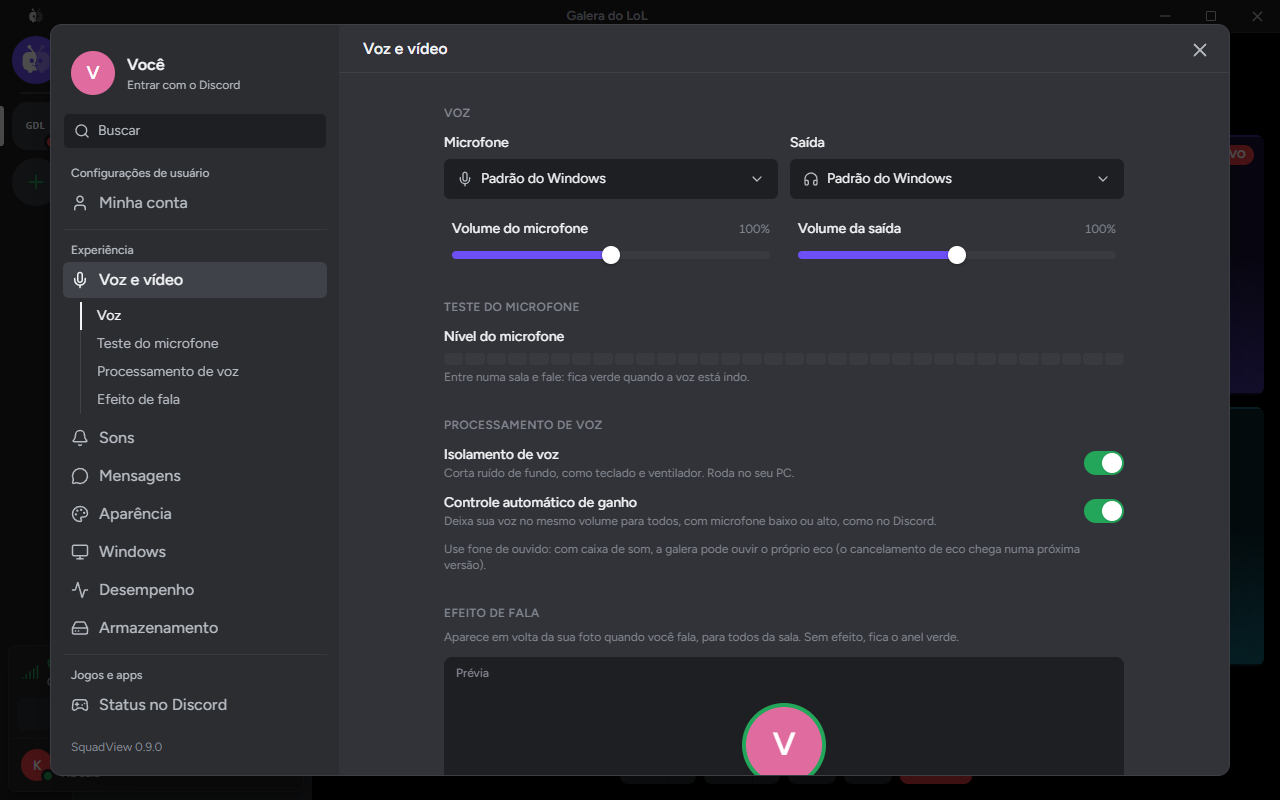
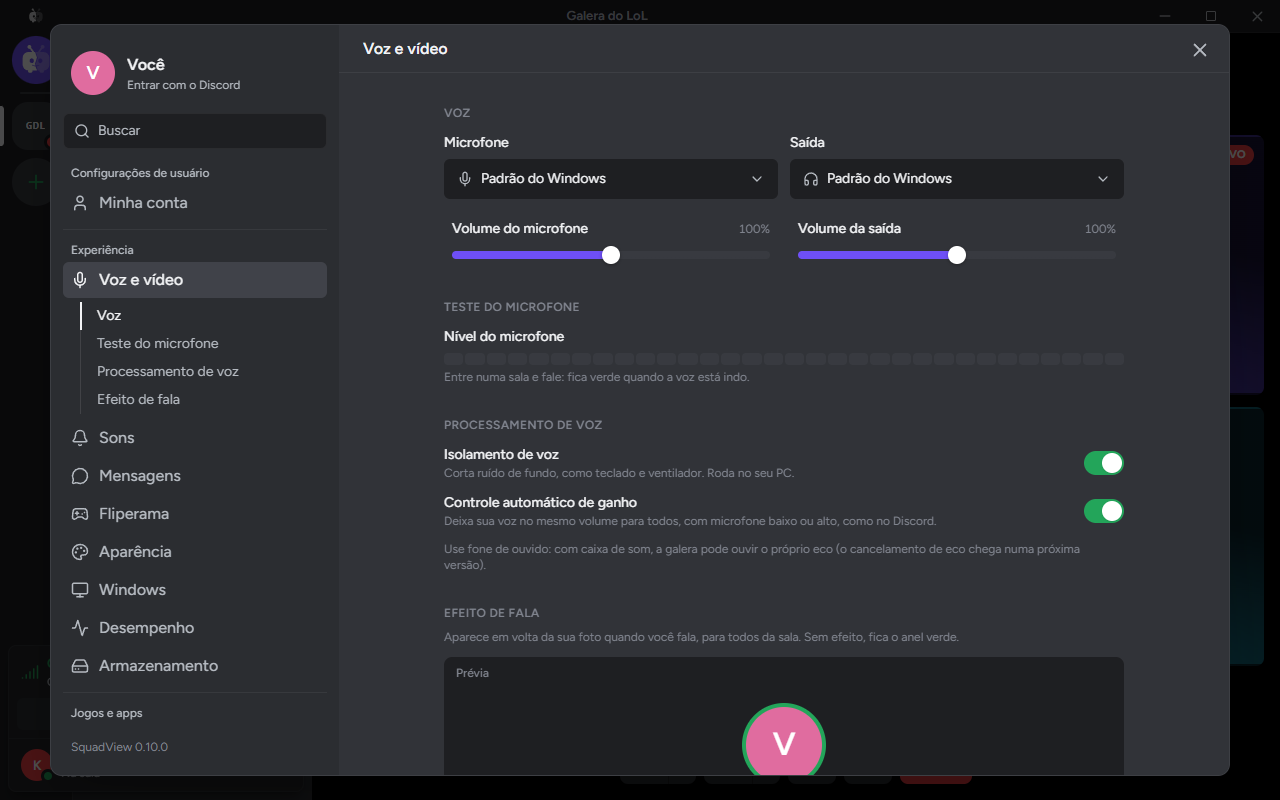
docs(docs): atualiza o README e as capturas para a versão 0.11
O destaque da versão passa a ser o Fliperama, com a retomada da sala e o
código inválido. Entra a captura do painel do Fliperama (cena de
demonstração nova, #demo=fliperama), e as telas que mudaram foram geradas
de novo.

Changed region(s): [[0.0625, 0.7812, 0.1875, 0.9062], [0.0625, 0.6875, 0.1562, 0.75], [0.0625, 0.625, 0.125, 0.6562]]

diff --git a/apps/desktop/src/dev/demo.ts b/apps/desktop/src/dev/demo.ts
@@ -1,10 +1,11 @@
 /**
  * Cenas de demonstração para as capturas do README (só no `yarn dev`, nunca no instalador):
  * `http://localhost:1420/#demo=sala`, `#demo=transmitir`, `#demo=config`, `#demo=amigos`, `#demo=conversa`,
- * `#demo=servidor`, `#demo=transmitindo`, `#demo=detalhes` ou `#demo=assistindo`.
+ * `#demo=servidor`, `#demo=transmitindo`, `#demo=detalhes`, `#demo=assistindo` ou `#demo=fliperama`.
  * Preenche as stores com uma sala de exemplo, sem precisar do Rust.
  */
 import { useAccountStore } from "../account/account-store";
+import { useArcadeStore } from "../arcade/arcade-store";
 import { type DmMessage, useDmStore } from "../dm/dm-store";
 import { useFriendsStore } from "../friends/friends-store";
 import { useAppearanceStore } from "../settings/appearance-store";
@@ -223,6 +224,21 @@ function goLive() {
   }, 250);
 }
 
+/** O nosso fliperama aberto sobre a live (ADR 0023): Lobo é o P2, Yondaime o P3 e com o controle total. */
+function openArcade() {
+  const arcade = { game: "Super Bomberman R", slots: 3, players: ["b", "c"] };
+  useRoomStore.setState({
+    members: useRoomStore.getState().members.map((m) => (m.id === "eu" ? { ...m, arcade } : m)),
+  });
+  useArcadeStore.setState({
+    hostDialog: true,
+    seats: [
+      { memberId: "b", slot: 2, connected: true, kbm: false },
+      { memberId: "c", slot: 3, connected: true, kbm: true },
+    ],
+  });
+}
+
 /** Assistindo duas lives ao mesmo tempo (Minato e Yondaime), cada uma como um quadro da sala. */
 function watchTwo() {
   const history = liveHistory();
@@ -324,7 +340,8 @@ export function runDemo(scene: string) {
         },
       },
     });
-  if (scene === "transmitindo" || scene === "detalhes") goLive();
+  if (scene === "transmitindo" || scene === "detalhes" || scene === "fliperama") goLive();
+  if (scene === "fliperama") openArcade();
   if (scene === "assistindo") watchTwo();
   // Espera a interface montar antes de abrir os modais.
   setTimeout(() => {

diff --git a/README.md b/README.md
@@ -35,7 +35,7 @@
 </p>
 
 > [!NOTE]
-> **Versão 0.10: a live com cara de Discord.** O vídeo agora é desenhado por baixo da interface: o AO VIVO, a qualidade, o nome, os menus e as animações aparecem por cima da live, sem as manchas e molduras pretas de antes, e um modal aberto não esconde mais a live. O picture in picture ganhou controles ao passar o mouse: silenciar, volume e voltar para o app. A sala ficou como a do Discord, com quem transmite e quem está assistindo no topo e a barra de botões embaixo dos quadros. Nas conversas, passe o mouse numa mensagem para reagir com emoji ou responder, e a hora aparece como no Discord ("Ontem às 23:59", só a hora para hoje e a data para dias anteriores). A sala inteira distribuindo o vídeo chega na [Fase 3](docs/roadmap.md). Achou um problema? [Abra uma issue](https://github.com/Kaique292/squadview/issues).
+> **Versão 0.11: o Fliperama.** Transmitindo um jogo com vários controles (Bomberman, jogos de luta, party games), abra o **Fliperama** no menu da sua live: até 3 amigos da call entram como P2, P3 e P4 e jogam pela rede, com controle de Xbox, com o teclado (que vira controle) ou com o mouse (que vira o analógico direito). Para jogos só de teclado e mouse, dê o **controle total** a um jogador por vez, com corte em Ctrl+Alt+F12. Também nesta versão: uma queda rápida da conexão não tira mais ninguém da sala nem derruba a voz, quem sai e volta não aparece duas vezes, e um código de sala que não existe avisa "Código inválido" em vez de criar uma sala vazia. Achou um problema? [Abra uma issue](https://github.com/Kaique292/squadview/issues).
 
 ## ✨ O que ele faz
 
@@ -47,12 +47,14 @@
 - **Só o áudio do jogo.** Transmitindo um jogo ou app, vai só o som dele, e o som acompanha quando o jogo troca de janela; o som da call fica de fora.
 - **A sua live na sala**, como no Discord: transmitindo, a sua tela vira um quadro da sala, com a qualidade e o AO VIVO no canto, desenhados por cima da imagem sem esconder nada dela. Clique para pôr em foco, dois cliques para a tela cheia e o botão direito para parar, trocar o que transmite, mudar a qualidade ou ligar e desligar o som, sem sair do ar. Os detalhes mostram o último minuto em gráficos (fps, bitrate, latência e encode) e o uso da GPU e da CPU em barras.
 - **Assista várias lives ao mesmo tempo**, como no Discord: cada live que você assiste vira um quadro da sala, igual ao da sua, e dá para assistir até 4 de uma vez. Clique para pôr em foco, dois cliques para a tela cheia e o botão direito (ou os "...") para o volume de até 200%, silenciar, parar de assistir e os detalhes (fps, bitrate, latência e ping em gráficos). No topo da sala aparecem quem transmite e as fotos de quem está assistindo; passe o mouse para ver a lista. Quer jogar enquanto assiste? Mande a live para uma **janelinha por cima de tudo** (picture in picture), com silenciar, volume e voltar para o app ao passar o mouse.
+- **Fliperama: o seu jogo local, online.** Transmitindo um jogo de vários controles, abra o Fliperama no menu da sua live e até 3 amigos da call entram como **P2, P3 e P4** pelo botão direito no seu nome. Cada um joga com o controle de Xbox dele, com o teclado (que vira controle, com as teclas que ele escolher) ou com o mouse preso no jogo (que vira o analógico direito). Para jogos só de teclado e mouse, você dá o **controle total** a um jogador por vez: só vale com a janela do jogo na frente, as teclas do Windows ficam bloqueadas e Ctrl+Alt+F12 corta na hora. Só quem hospeda instala o driver de controle (ViGEmBus), e dá para remover quando quiser em Configurações › Fliperama ([ADR 0023](docs/adr/0023-modo-fliperama.md) e [0024](docs/adr/0024-fliperama-teclado-e-mouse.md)).
 - **Funciona atrás de CGNAT.** Se a conexão direta não fecha (internet da operadora, 4G), o app tenta por IPv6 e, se ainda não der, recebe o vídeo por alguém da sala que já está assistindo. A voz faz o mesmo: se dois amigos não se alcançam, outro membro da sala repassa a voz entre eles, assinada com uma chave que só os dois conhecem ([ADR 0020](docs/adr/0020-voz-repassada-pela-sala.md)). Tudo de graça, sem servidor no meio; há também um repassador na nuvem pronto para ligar ([ADR 0014](docs/adr/0014-conexao-em-camadas.md)).
 - **Chat de voz na sala.** A sala é um canal de voz como o do Discord: um quadro por pessoa, cada um com o seu fundo em degradê, borda verde (ou o efeito que você escolher, com a cor que quiser; quando duas pessoas falam lado a lado, as cores se misturam onde os efeitos se tocam) em quem fala, mudo e surdo, e clique num quadro para pôr a pessoa em foco. Volume e silenciar por pessoa (só para você), isolamento de voz contra teclado e ventilador e controle automático de ganho, para todo mundo chegar no mesmo volume. A voz também vai direto de PC para PC.
 - **Amigos.** Veja quem está online, numa sala ou transmitindo. Peça para entrar na sala de um amigo (qualquer pessoa da sala aceita), chame amigos para a sua e marque quem entra direto. Adicione direto pelo botão direito em quem está na sala com você, ou depois, em Recentes.
 - **Servidores com salas fixas.** Crie um servidor para a turma, com salas de voz que ficam lá mesmo vazias. A lateral mostra quem está em cada sala e quem está ao vivo, mesmo com você fora dela, o ícone do servidor ganha um alto-falante quando tem gente em call, e quem é do servidor entra direto, sem pedir permissão. Chame a galera por um link de convite clicável, escolha administradores e dê um ícone ao servidor, ajustando o recorte, a posição e o zoom. O botão direito no ícone do servidor abre o menu dele.
 - **Conversas privadas.** Mande mensagens, fotos, vídeos e arquivos para um amigo, direto de PC para PC: nem o texto passa por servidor, e o histórico fica só no seu PC. Fotos pequenas aparecem sozinhas; arquivos grandes e vídeos esperam você clicar em Baixar (e dá para cancelar no meio). Passe o mouse numa mensagem para reagir com emoji ou responder, e a hora aparece como no Discord. Mensagem nova toca um som e soma no contador do ícone. O que você mandar com o amigo offline fica esperando e vai quando ele aparecer.
-- **Salas rápidas com nome e código, sem limite de pessoas.** Dê um nome à sala e mande o **link de convite**: quem tem o app entra direto, quem não tem cai na página de download.
+- **Salas rápidas com nome e código, sem limite de pessoas.** Dê um nome à sala e mande o **link de convite**: quem tem o app entra direto, quem não tem cai na página de download. Dá para colar o link inteiro no campo do código, e um código que não existe avisa "Código inválido".
+- **A conexão cai e ninguém percebe.** Se a conexão com a sala cair por um instante, o app volta sozinho na hora, com o mesmo lugar: a voz não cai, a lista não pisca e ninguém vê você sair e entrar ([ADR 0022](docs/adr/0022-retomada-da-vaga-na-sala.md)).
 - **Integração com o Discord.** Entre com a sua conta: seu nome e sua foto aparecem para toda a sala. Mostre no seu perfil do Discord que está numa sala, transmitindo ou assistindo, com o botão "Entrar na sala" se quiser.
 - **Visual que você já conhece.** Interface na organização do Discord, com identidade própria, configurações por categoria e efeito de vidro ajustável. Sons de aviso ao entrar, sair, mutar, ensurdecer e transmitir (com volume e cada som desligável).
 - **Fica na bandeja.** Fechar a janela deixa o app perto do relógio, e você continua na sala; clique no ícone para abrir ou use "Sair" no botão direito. Dá para desligar em Configurações › Windows.
@@ -74,6 +76,10 @@
 
 <p align="center">
   <img src="docs/images/tela-assistindo.png" alt="Assistindo duas lives ao mesmo tempo: cada uma é um quadro da sala, com a qualidade e o AO VIVO no canto, ao lado de quem está na voz" width="90%">
+</p>
+
+<p align="center">
+  <img src="docs/images/tela-fliperama.png" alt="Painel do Fliperama aberto sobre a live: Super Bomberman R com Lobo como P2 e Yondaime como P3 com o controle total ligado, e o aviso do corte em Ctrl+Alt+F12" width="90%">
 </p>
 
 <p align="center">
@@ -240,7 +246,7 @@ As miniaturas das janelas usam o crate `jpeg-encoder`: _this software is based i
 
 There is **no media server**: video goes directly between PCs over QUIC, with UDP hole punching. The plan (Phase 3) is for the room itself to distribute the video: members with spare upload relay already-encoded packets, and members on weak connections get a 720p layer. A tiny free signaling service (Cloudflare Worker) only helps peers find each other; no video goes through it.
 
-- **Status:** version 0.10. One friend streams and the rest of the room watches inside the app, directly PC to PC (NVIDIA and AMD), with a live viewer count. Members behind CGNAT connect over IPv6 or get the stream relayed by someone already watching; an optional cloud TURN relay is ready to turn on. The room is a Discord-like voice channel (peer-to-peer Opus voice with noise suppression), with friends, presence, "ask to join" requests, custom speaking effects that blend where they touch, picture-in-picture, notification sounds and a system tray icon. Watch up to 4 streams at once, each one a tile in the room with its own volume, mute, fullscreen, picture-in-picture (with hover controls) and stats. Video is drawn underneath the interface with DirectComposition, so badges, menus and animations blend over the stream. When two members can't reach each other (CGNAT), a third member relays their voice, signed end to end so the relay can't forge it. Rooms have no member limit. Servers with persistent voice rooms (showing who is in each room, with members joining directly), clickable invite links, roles and cropped icons; private peer-to-peer messages with files, emoji reactions and replies (no server in between, history kept locally). Discord login, invite links, Rich Presence and a silent Discord-style installer. Your own stream shows up as a tile in the room (Discord-style), with a right-click menu to stop, switch source, change quality or toggle audio without going offline, and a details view with live charts. Full room-wide relaying (mesh) is Phase 3. See the [roadmap](docs/roadmap.md).
+- **Status:** version 0.11. New: the **Arcade** mode turns a local multiplayer game into an online one: up to 3 friends on the call join as P2–P4 and play with their Xbox controller, keyboard (mapped to a controller) or mouse (right stick), through virtual Xbox controllers (ViGEmBus) on the host's PC; the host can hand "full control" of keyboard and mouse to one player at a time, only while the game window is in front, with Ctrl+Alt+F12 to cut it. Short signaling drops are now invisible: the app rejoins the room with the same seat, without dropping voice. One friend streams and the rest of the room watches inside the app, directly PC to PC (NVIDIA and AMD), with a live viewer count. Members behind CGNAT connect over IPv6 or get the stream relayed by someone already watching; an optional cloud TURN relay is ready to turn on. The room is a Discord-like voice channel (peer-to-peer Opus voice with noise suppression), with friends, presence, "ask to join" requests, custom speaking effects that blend where they touch, picture-in-picture, notification sounds and a system tray icon. Watch up to 4 streams at once, each one a tile in the room with its own volume, mute, fullscreen, picture-in-picture (with hover controls) and stats. Video is drawn underneath the interface with DirectComposition, so badges, menus and animations blend over the stream. When two members can't reach each other (CGNAT), a third member relays their voice, signed end to end so the relay can't forge it. Rooms have no member limit. Servers with persistent voice rooms (showing who is in each room, with members joining directly), clickable invite links, roles and cropped icons; private peer-to-peer messages with files, emoji reactions and replies (no server in between, history kept locally). Discord login, invite links, Rich Presence and a silent Discord-style installer. Your own stream shows up as a tile in the room (Discord-style), with a right-click menu to stop, switch source, change quality or toggle audio without going offline, and a details view with live charts. Full room-wide relaying (mesh) is Phase 3. See the [roadmap](docs/roadmap.md).
 - **Stack:** Rust core, Tauri v2, React 19 + Tailwind v4, QUIC (quinn) peer-to-peer mesh, Cloudflare Worker for signaling.
 - **Contributing:** PRs target the `dev` branch and use [Conventional Commits](https://www.conventionalcommits.org/). Docs are in Portuguese; issues and PRs in English are welcome too.
 - **Support:** [Buy Me a Coffee](https://buymeacoffee.com/kaiqueamaral).

diff --git a/docs/desenvolvimento.md b/docs/desenvolvimento.md
@@ -110,7 +110,7 @@ docs/                 documentação, ADRs, design e imagens
 
 ## Capturas do README e imagem de prévia do site
 
-- **Capturas das telas:** com o `yarn dev` rodando, abra `http://localhost:1420/#demo=sala` (ou `#demo=transmitir`, `#demo=config`, `#demo=amigos`, `#demo=conversa`, `#demo=servidor`, `#demo=transmitindo`, `#demo=detalhes`). O modo de demonstração (`apps/desktop/src/dev/demo.ts`, só no dev) preenche a interface com uma sala de exemplo. Para gerar o PNG sem abrir janela:
+- **Capturas das telas:** com o `yarn dev` rodando, abra `http://localhost:1420/#demo=sala` (ou `#demo=transmitir`, `#demo=config`, `#demo=amigos`, `#demo=conversa`, `#demo=servidor`, `#demo=transmitindo`, `#demo=detalhes`, `#demo=assistindo`, `#demo=fliperama`). O modo de demonstração (`apps/desktop/src/dev/demo.ts`, só no dev) preenche a interface com uma sala de exemplo. Para gerar o PNG sem abrir janela:
 
   ```powershell
   & "C:\Program Files (x86)\Microsoft\Edge\Application\msedge.exe" --headless=new --hide-scrollbars --window-size=1280,800 --virtual-time-budget=6000 --screenshot=docs\images\tela-sala.png "http://localhost:1420/#demo=sala"
